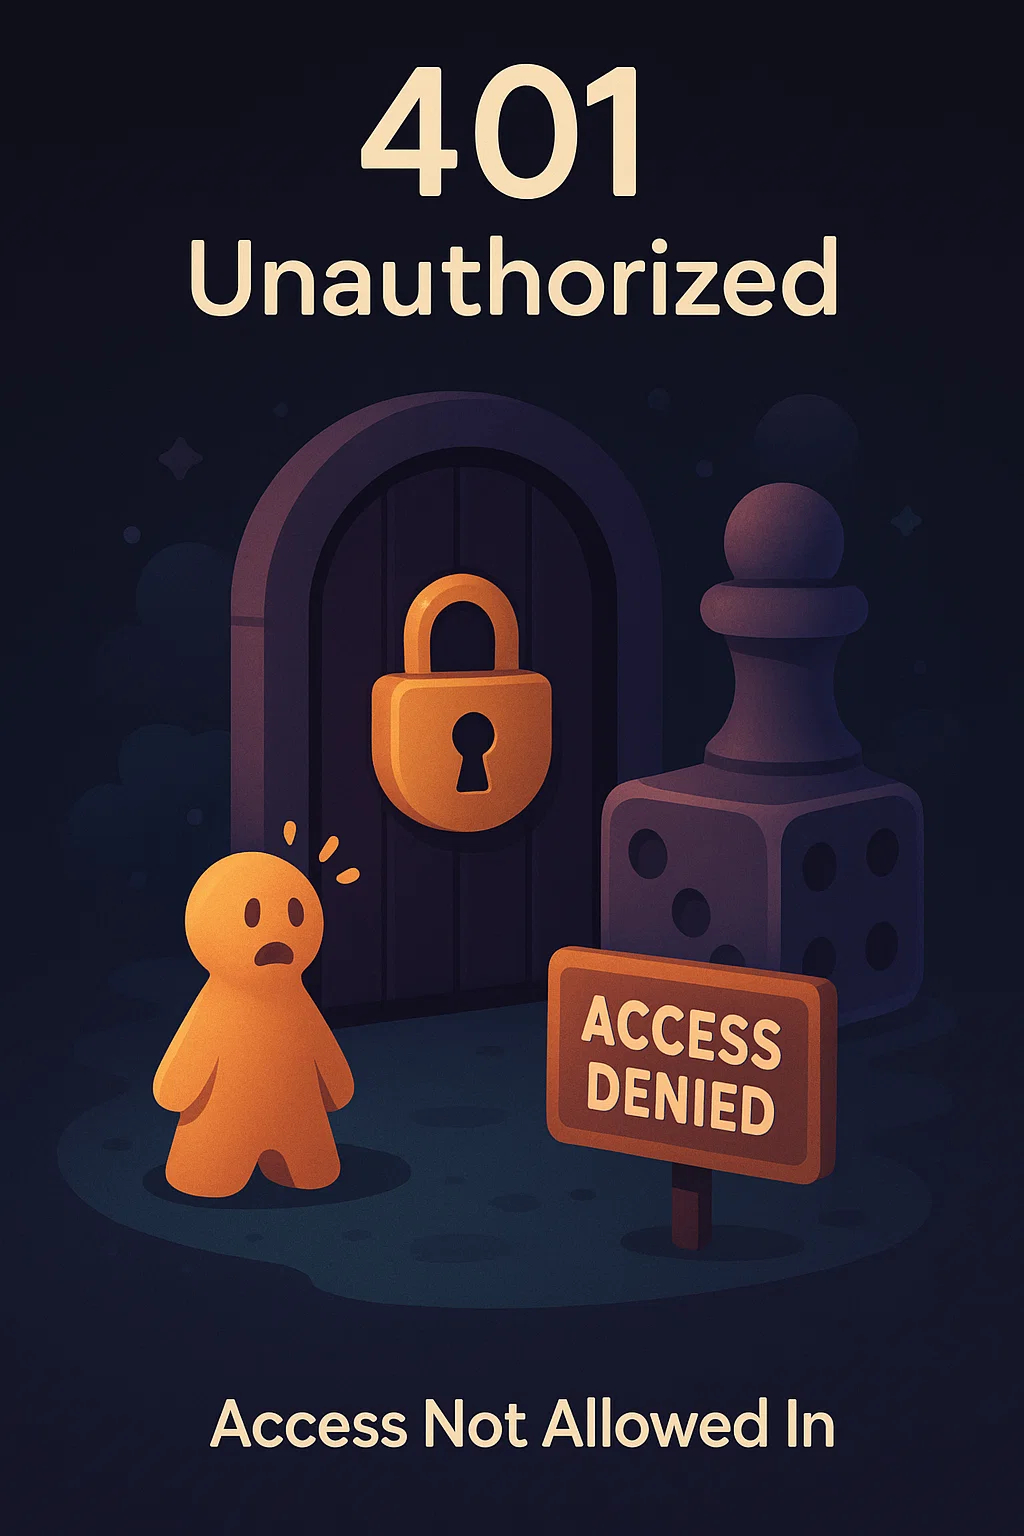
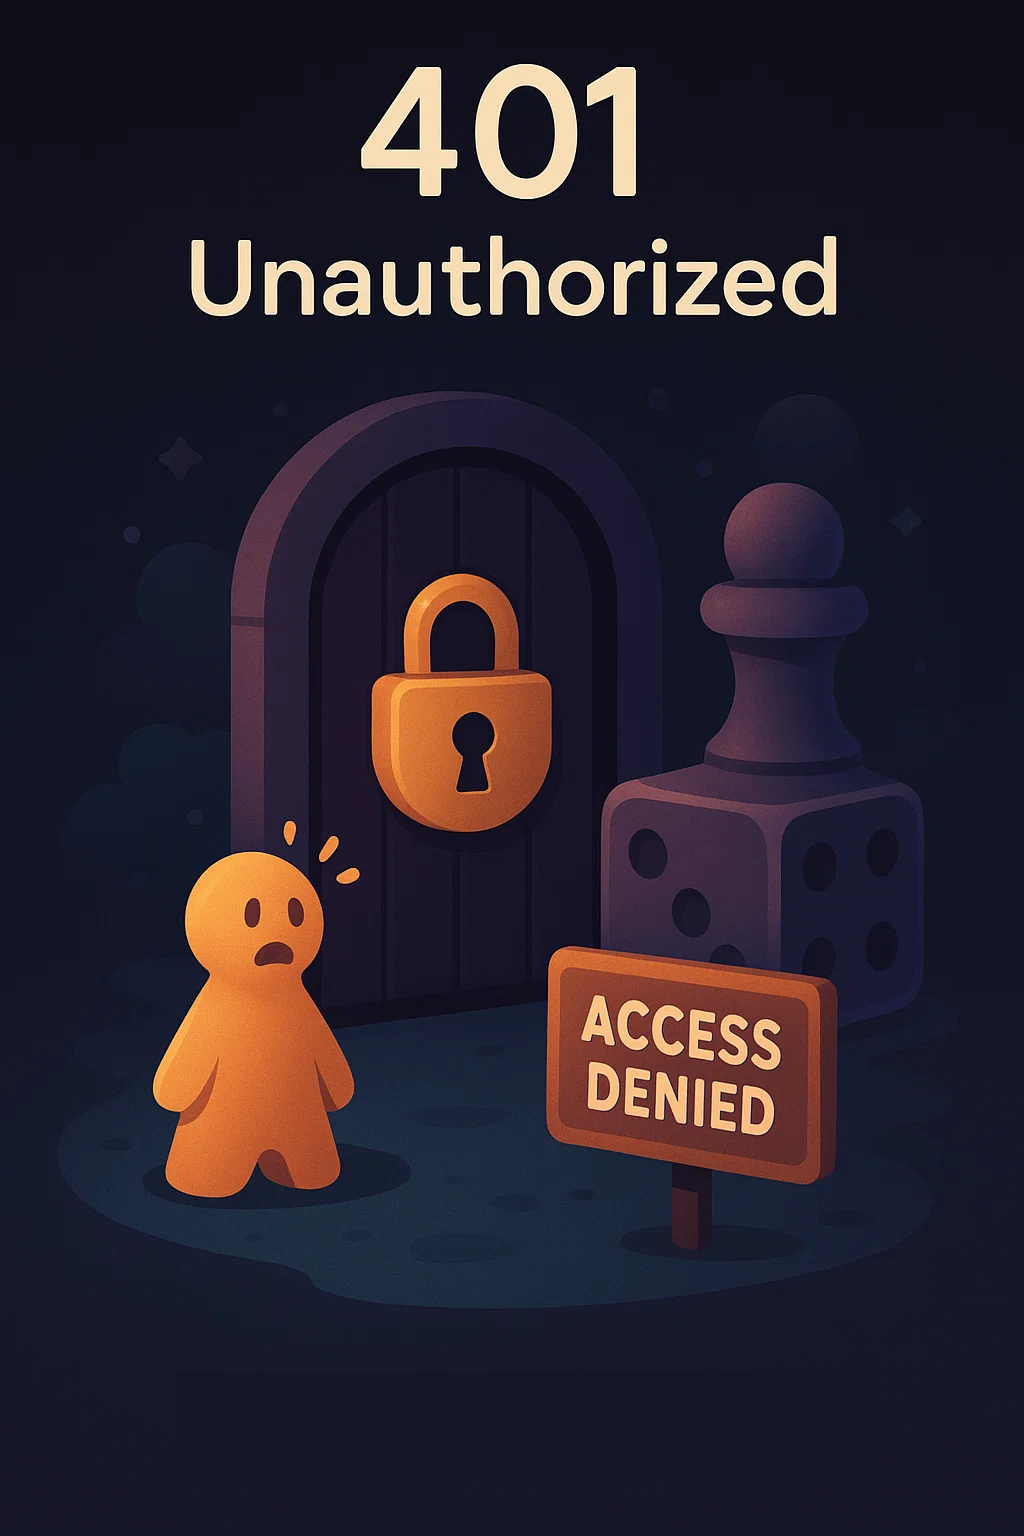
error message new design

Changed region(s): [[0.1875, 0.9062, 0.8125, 0.9688]]

diff --git a/DH.WebUI/src/shared/assets/styles/_button.scss b/DH.WebUI/src/shared/assets/styles/_button.scss
@@ -1,96 +1,111 @@
 @use "../styles/palette";
 
 .btn {
-    appearance: none;
-    border: none;
-    border-radius: 2rem;
-    color: #ffffff;
-    cursor: pointer;
+  appearance: none;
+  border: none;
+  border-radius: 2rem;
+  color: #ffffff;
+  cursor: pointer;
+  font-size: 1rem;
+  font-weight: 600;
+  padding: 0.65rem 2rem;
+
+  &__extra-small {
+    padding: 0.25rem 0.75rem;
+    font-size: 0.7rem;
+  }
+
+  &__small {
+    padding: 0.5rem 1.5rem;
+    font-size: 0.8rem;
+  }
+
+  &__large {
+    padding: 0.8rem 3rem;
+    font-size: 1.2rem;
+  }
+
+  &__exception {
+    position: absolute;
+    bottom: 5rem;
+    left: 50%;
+    transform: translateX(-50%);
+    padding: 1rem 4rem;
     font-size: 1rem;
-    font-weight: 600;
-    padding: 0.65rem 2rem;
-  
-    &__extra-small {
-      padding: 0.25rem 0.75rem;
-      font-size: 0.7rem;
-    }
-
-    &__small {
-      padding: 0.5rem 1.5rem;
-      font-size: 0.8rem;
-    }
-  
-    &__large {
-      padding: 0.8rem 3rem;
-      font-size: 1.2rem;
-    }
-  
-    &-blue {
-      background-color: palette.$main-blue-color;
-    }
-  
-    &-green {
-      background-color: palette.$main-green-color;
-    }
-  
-    &-red {
-      background-color: palette.$main-red-color;
-    }
-  
-    &-yellow {
-      background-color: palette.$chip-yellow-color;
-    }
-  
-    &-orange {
-      background-color: palette.$chip-orange-color;
-    }
-  
-    &-gray {
-      background-color: palette.$main-nav-color;
-    }
-  
-    &-font-blue {
-      color: palette.$main-blue-color;
-    }
-  
-    &-font-green {
-      color: palette.$main-green-color;
-    }
-  
-    &-font-red {
-      color: palette.$chip-red-color;
-    }
-  
-    &-font-yellow {
-      color: palette.$chip-yellow-color;
-    }
-  
-    &-font-orange {
-      color: palette.$chip-orange-color;
-    }
-  
-    &-border-blue {
-      border: 0.2rem solid palette.$main-blue-color;
-    }
-  
-    &-border-green {
-      border: 0.2rem solid palette.$main-green-color;
-    }
-  
-    &-border-red {
-      border: 0.2rem solid palette.$main-red-color
-    }
-  
-    &-border-yellow {
-      border: 0.2rem solid palette.$chip-yellow-color;
-    }
-  
-    &-border-orange {
-      border: 0.2rem solid palette.$chip-orange-color;
-    }
+    border: none;
+    border-radius: 8px;
+    background-color: #ffffffcc;
+    color: palette.$main-nav-color;
+ 
+    white-space: nowrap;
   }
 
-  .btn:disabled {
-    opacity: 0.5;
-    cursor: not-allowed; 
+  &-blue {
+    background-color: palette.$main-blue-color;
   }
+
+  &-green {
+    background-color: palette.$main-green-color;
+  }
+
+  &-red {
+    background-color: palette.$main-red-color;
+  }
+
+  &-yellow {
+    background-color: palette.$chip-yellow-color;
+  }
+
+  &-orange {
+    background-color: palette.$chip-orange-color;
+  }
+
+  &-gray {
+    background-color: palette.$main-nav-color;
+  }
+
+  &-font-blue {
+    color: palette.$main-blue-color;
+  }
+
+  &-font-green {
+    color: palette.$main-green-color;
+  }
+
+  &-font-red {
+    color: palette.$chip-red-color;
+  }
+
+  &-font-yellow {
+    color: palette.$chip-yellow-color;
+  }
+
+  &-font-orange {
+    color: palette.$chip-orange-color;
+  }
+
+  &-border-blue {
+    border: 0.2rem solid palette.$main-blue-color;
+  }
+
+  &-border-green {
+    border: 0.2rem solid palette.$main-green-color;
+  }
+
+  &-border-red {
+    border: 0.2rem solid palette.$main-red-color;
+  }
+
+  &-border-yellow {
+    border: 0.2rem solid palette.$chip-yellow-color;
+  }
+
+  &-border-orange {
+    border: 0.2rem solid palette.$chip-orange-color;
+  }
+}
+
+.btn:disabled {
+  opacity: 0.5;
+  cursor: not-allowed;
+}

diff --git a/DH.WebUI/src/app/app-routes/app.routes.ts b/DH.WebUI/src/app/app-routes/app.routes.ts
@@ -144,6 +144,7 @@ export const ROUTES: Routes = [
       import('../../shared/exceptions/unauthorized/unauthorized.module').then(
         (m) => m.UnauthorizedModule
       ),
+    data: { hideMenu: true },
   },
   {
     path: 'forbidden',
@@ -151,6 +152,7 @@ export const ROUTES: Routes = [
       import('../../shared/exceptions/forbidden/forbidden.module').then(
         (m) => m.ForbiddenModule
       ),
+    data: { hideMenu: true },
   },
   {
     path: 'server-error',
@@ -158,6 +160,7 @@ export const ROUTES: Routes = [
       import('../../shared/exceptions/server-down/server-error.module').then(
         (m) => m.ServerErrorModule
       ),
+    data: { hideMenu: true },
   },
   {
     path: 'not-found',
@@ -165,5 +168,6 @@ export const ROUTES: Routes = [
       import('../../shared/exceptions/not-found/not-found.module').then(
         (m) => m.NotFoundModule
       ),
+    data: { hideMenu: true },
   },
 ];

diff --git a/DH.WebUI/src/shared/exceptions/unauthorized/unauthorized.component.ts b/DH.WebUI/src/shared/exceptions/unauthorized/unauthorized.component.ts
@@ -4,13 +4,10 @@ import { Router } from '@angular/router';
 @Component({
   selector: 'app-unauthorized',
   templateUrl: 'unauthorized.component.html',
+  styleUrls: ['unauthorized.component.scss'],
 })
 export class UnauthorizedComponent {
-  public imgPath = 'assets/img/401_error.svg';
-  public details = [
-    'The access to this page is restricted.',
-    'Please go to the Landing Page or refer to your system administrator.',
-  ];
+   public imgPath = 'shared/assets/images/exceptions/unauthorized-401.jpg';
 
   constructor(private readonly router: Router) {}
 

diff --git a/DH.WebUI/src/shared/exceptions/unauthorized/unauthorized.component.html b/DH.WebUI/src/shared/exceptions/unauthorized/unauthorized.component.html
@@ -1,12 +1,6 @@
 <div class="error-wrapper">
-    <img class="error-code-icon" [src]="imgPath" />
-    <div class="container">
-      <div class="error-header">Unauthorized</div>
-      <div class="content">
-        <span *ngFor="let item of details; trackByIndex">{{ item }}</span>
-      </div>
-    </div>
-    <button class="mt-5" (click)="redirectTo()"
-      >Navigate to Games Library</button
-    >
-  </div>
+  <img class="error-code-icon" [src]="imgPath" />
+  <button class="btn btn__exception" (click)="redirectTo()">
+    Back to Home
+  </button>
+</div>

diff --git a/DH.WebUI/src/shared/exceptions/forbidden/forbidden.component.html b/DH.WebUI/src/shared/exceptions/forbidden/forbidden.component.html
@@ -1,12 +1,6 @@
 <div class="error-wrapper">
-    <img class="error-code-icon" [src]="imgPath" />
-    <div class="container">
-      <div class="error-header">Forbidden</div>
-      <div class="content">
-        <span *ngFor="let item of details; trackByIndex">{{ item }}</span>
-      </div>
-    </div>
-    <button class="mt-5" (click)="redirectTo()"
-      >Navigate to Games Library</button
-    >
-  </div>
+  <img class="error-code-icon" [src]="imgPath" />
+  <button class="btn btn__exception" (click)="redirectTo()">
+    Back to Home
+  </button>
+</div>

diff --git a/DH.WebUI/src/shared/exceptions/not-found/not-found.component.html b/DH.WebUI/src/shared/exceptions/not-found/not-found.component.html
@@ -1,12 +1,6 @@
 <div class="error-wrapper">
-    <img class="error-code-icon" [src]="imgPath" />
-    <div class="container">
-      <div class="error-header">Not Found</div>
-      <div class="content">
-        <span *ngFor="let item of details; trackByIndex">{{ item }}</span>
-      </div>
-    </div>
-    <button class="mt-5" (click)="redirectTo()"
-      >Navigate to Games Library</button
-    >
-  </div>
+  <img class="error-code-icon" [src]="imgPath" />
+  <button class="btn btn__exception" (click)="redirectTo()">
+    Back to Home
+  </button>
+</div>

diff --git a/DH.WebUI/src/shared/exceptions/forbidden/forbidden.component.ts b/DH.WebUI/src/shared/exceptions/forbidden/forbidden.component.ts
@@ -4,13 +4,10 @@ import { Router } from '@angular/router';
 @Component({
   selector: 'app-forbidden',
   templateUrl: 'forbidden.component.html',
+  styleUrls: ['forbidden.component.scss'],
 })
 export class ForbiddenComponent {
-  public imgPath = 'assets/img/403_error.svg';
-  public details = [
-    'The access to this page is restricted.',
-    'Please go to the Landing Page or refer to your system administrator.',
-  ];
+  public imgPath = 'shared/assets/images/exceptions/forbidden-403.jpg';
 
   constructor(private readonly router: Router) {}
 

diff --git a/DH.WebUI/src/shared/exceptions/not-found/not-found.component.ts b/DH.WebUI/src/shared/exceptions/not-found/not-found.component.ts
@@ -4,13 +4,10 @@ import { Router } from '@angular/router';
 @Component({
   selector: 'app-not-found',
   templateUrl: 'not-found.component.html',
+  styleUrls: ['not-found.component.scss'],
 })
 export class NotFoundComponent {
-  public imgPath = 'assets/img/404_error.svg';
-  public details = [
-    'The object was not found.',
-    'Please go to the Landing Page or refer to your system administrator.',
-  ];
+  public imgPath = 'shared/assets/images/exceptions/not-found-404.jpg';
 
   constructor(private readonly router: Router) {}
 

diff --git a/DH.WebUI/src/shared/exceptions/server-down/server-error.component.ts b/DH.WebUI/src/shared/exceptions/server-down/server-error.component.ts
@@ -1,7 +1,17 @@
 import { Component } from '@angular/core';
+import { Router } from '@angular/router';
 
 @Component({
   selector: 'app-server-error',
   templateUrl: 'server-error.component.html',
+  styleUrls: ['server-error.component.scss'],
 })
-export class ServerErrorComponent {}
+export class ServerErrorComponent {
+   public imgPath = 'shared/assets/images/exceptions/server-error-500.jpg';
+
+  constructor(private readonly router: Router) {}
+
+  public redirectTo() {
+    this.router.navigateByUrl('/games/library');
+  }
+}

diff --git a/DH.WebUI/src/shared/exceptions/server-down/server-error.component.html b/DH.WebUI/src/shared/exceptions/server-down/server-error.component.html
@@ -1,3 +1,6 @@
-<h1>Server Down</h1>
-<p>Our servers are currently unavailable. Please try again later.</p>
-<a routerLink="/">Go to Homepage</a>
+<div class="error-wrapper">
+  <img class="error-code-icon" [src]="imgPath" />
+  <button class="btn btn__exception" (click)="redirectTo()">
+    Back to Home
+  </button>
+</div>

diff --git a/DH.WebUI/src/shared/exceptions/unauthorized/unauthorized.component.scss b/DH.WebUI/src/shared/exceptions/unauthorized/unauthorized.component.scss
@@ -1,1 +1,13 @@
-.error-wrapper{}
+.error-code-icon {
+  width: 100vw;
+  height: 100vh;
+  object-fit: cover;
+  display: block;
+}
+
+.error-wrapper {
+  position: relative;
+  width: 100vw;
+  height: 100vh;
+  overflow: hidden;
+}

diff --git a/DH.WebUI/src/shared/exceptions/not-found/not-found.component.scss b/DH.WebUI/src/shared/exceptions/not-found/not-found.component.scss
@@ -1,0 +1,13 @@
+.error-code-icon {
+  width: 100vw;
+  height: 100vh;
+  object-fit: cover;
+  display: block;
+}
+
+.error-wrapper {
+  position: relative;
+  width: 100vw;
+  height: 100vh;
+  overflow: hidden;
+}
